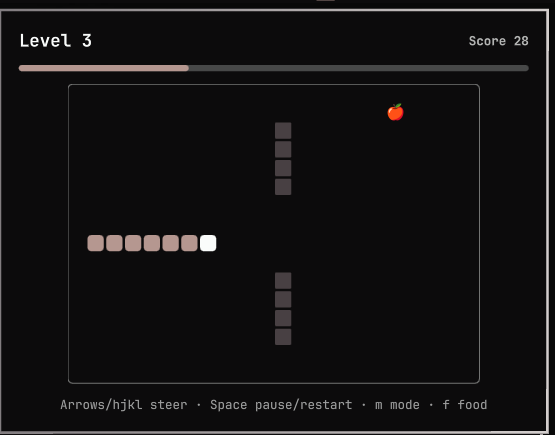
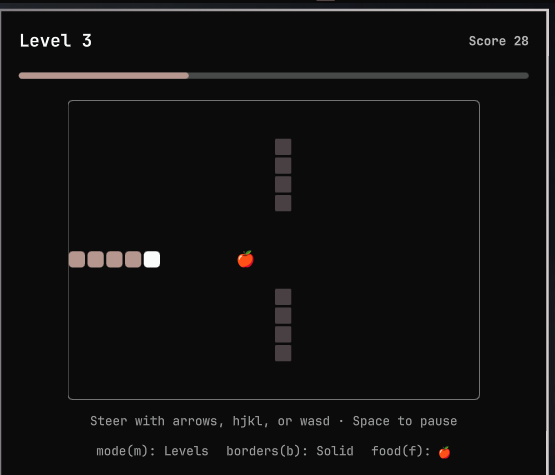
Remove wall-wrap button, add wasd, fixed-height header row, richer game-over quips
- Removed the PanelActionButton wall-wrap toggle from the header; 'w' is
  now movement (wasd steering added, riding onTextKey), wall-wrap moved
  to 'b' (borders)
- Header row (progress bar / endless-mode clock) is now a fixed-height
  Item so toggling Levels/Endless with 'm' no longer resizes the panel;
  Endless mode shows a running MM:SS clock in that slot instead of
  empty space
- Bottom hint area rebuilt: plain steer/pause line, then three
  independently clickable status labels (mode(m), borders(b), food(f))
  showing their current value and toggling on click same as their key;
  dropped the '·' separators for spacing instead; food moved to last
  position
- Game-over quip system expanded: 20 time-based lines plus 10 new
  score-based and 5 new level-based ones (35 total), plus a separate
  10-line highscore-only pool used when the run's score beats (not
  ties) the previous best; compact duration format (2m5s) instead of
  spelled-out minutes/seconds
- Regenerated preview.png and screenshot-levels.png against the current
  UI (old ones were stale after several rounds of panel layout changes)

Every change here was verified live (qmllint + omarchy plugin validate
before each shell restart, then a screenshot) before being folded in,
including sampling multiple random game-over quips across both the
regular and highscore pools.

diff --git a/Panel.qml b/Panel.qml
@@ -4,9 +4,13 @@ import qs.Commons
 
 // Snake, for the moments between: the build's compiling, the agent's still
 // thinking, the idea hasn't shown up yet. Lives in the bar so it's always
-// one click from wherever you already are. Arrow keys / hjkl steer, Space
-// pauses or restarts, m swaps Levels/Endless, w swaps solid/wrapping walls.
-// Each open starts a fresh run (onOpenedChanged below).
+// one click from wherever you already are. Arrow keys / hjkl / wasd steer,
+// Space pauses or restarts, m swaps Levels/Endless, b swaps solid/wrapping
+// walls. Each open starts a fresh run (onOpenedChanged below).
+//
+// wasd rides PanelKeyCatcher's onTextKey rather than onMoveRequested (which
+// only covers arrows and hjkl), calling turn() directly with the same
+// dx/dy convention.
 //
 // Levels mode: the header shows "Level N" and a thin progress bar tracks
 // score toward the next one. Level is derived from score via
@@ -94,6 +98,99 @@ Panel {
 
   function toggleWallsWrap() {
     wallsWrap = !wallsWrap
+  }
+
+  // Endless has no next level to show progress toward, so it gets a running
+  // clock in the same header slot instead — keeps something worth watching
+  // there and, since it occupies the same fixed-height row as the levels
+  // progress bar, keeps the panel from resizing when 'm' swaps modes.
+  property int elapsedSeconds: 0
+  readonly property string elapsedTimeText: {
+    var m = Math.floor(elapsedSeconds / 60)
+    var s = elapsedSeconds % 60
+    return (m < 10 ? "0" : "") + m + ":" + (s < 10 ? "0" : "") + s
+  }
+
+  // "2m5s", "45s" - compact duration for the game-over quip below.
+  function formatDuration(totalSeconds) {
+    var m = Math.floor(totalSeconds / 60)
+    var s = totalSeconds % 60
+    return m > 0 ? (m + "m" + s + "s") : (s + "s")
+  }
+
+  // One-liners for the game-over screen. {time}/{score}/{level} get
+  // substituted with the run that just ended (see fillGameOverTemplate()).
+  // endGame() picks one pool based on whether this run just beat `best`,
+  // then a random line from it once per death - not re-rolled on every
+  // re-render. Kept as three flavor pools (time/score/level) plus a
+  // separate highscore-only pool, rather than one flat list, so the
+  // highscore case never has to accidentally roll a line that doesn't
+  // mention the score.
+  readonly property var timeQuips: [
+    "Well, that's {time} of your life you'll never get back.",
+    "{time} well spent. Definitely not wasted. Probably.",
+    "The build finished ages ago. You're still here after {time}.",
+    "{time} of pure focus, undone by one wrong turn.",
+    "You survived {time}. The wall did not survive your ego.",
+    "{time}. Not your best run. Not your worst either.",
+    "Somewhere, a rubber duck is disappointed in your {time}.",
+    "{time} of your one wild and precious life, gone.",
+    "The snake remembers {time} of glory. Briefly.",
+    "You could've stretched in {time}. You did not.",
+    "{time} elapsed. Zero regrets. Okay, one regret.",
+    "That wall was there the whole time. {time} of denial.",
+    "{time}. Your coworkers think you're deep in thought.",
+    "Legendary run of {time}. Nobody was watching.",
+    "{time} down the drain, one pixel at a time.",
+    "You and the wall, {time} of tension, resolved poorly.",
+    "{time}. The agent finished. You did not.",
+    "Achievement unlocked: {time} of avoiding real work.",
+    "{time}. Worth it? Ask again after the next run.",
+    "A solid {time}. The snake deserved better."
+  ]
+  readonly property var scoreQuips: [
+    "Score: {score}. Groundbreaking. Truly.",
+    "{score} points. The bar was already low.",
+    "You scored {score}. Somewhere, a real gamer wept.",
+    "{score} points in {time}. Efficient, if nothing else.",
+    "A modest {score}. The apple logo remains unimpressed.",
+    "{score}. Write that down somewhere nobody will read it.",
+    "Final score: {score}. Print it. Frame it. Ignore it.",
+    "{score} points. The snake has seen better days.",
+    "You call that {score}? The snake is embarrassed for you.",
+    "{score}. Somewhere between 'meh' and 'why bother'."
+  ]
+  readonly property var levelQuips: [
+    "Made it to level {level}. The walls remain undefeated.",
+    "Level {level}. A number. Nothing more.",
+    "Level {level}, reached and then immediately un-reached.",
+    "You died on level {level}, same as everyone else who tried.",
+    "Level {level}. Somewhere, a wall is proud of itself."
+  ]
+  readonly property var allGameOverQuips: timeQuips.concat(scoreQuips, levelQuips)
+
+  // Only rolled when this run's score beats (not ties) the previous best.
+  readonly property var highscoreQuips: [
+    "New high score: {score}. Somebody alert the media. Or don't.",
+    "{score}! A new record. Treat yourself to absolutely nothing.",
+    "Personal best: {score}. History has been made. Barely.",
+    "You beat your high score with {score}. Confetti not included.",
+    "{score} points, a new high score, zero prize money.",
+    "New record! {score} points of undeniable, if minor, achievement.",
+    "High score! {score}. The trophy is imaginary but the pride is real.",
+    "You out-snaked your past self. {score}. Legendary. Ish.",
+    "{score} - a new best. Somewhere, past-you is furious.",
+    "Record broken: {score}. The snake salutes you. Sort of."
+  ]
+
+  property string gameOverTemplate: ""
+  readonly property string gameOverMessage: gameOverTemplate === "" ? "" : fillGameOverTemplate(gameOverTemplate)
+
+  function fillGameOverTemplate(template) {
+    return template
+      .replace("{time}", formatDuration(elapsedSeconds))
+      .replace("{score}", score)
+      .replace("{level}", level)
   }
 
   // Deterministic wall layouts for levels 2-50: 8 obstacle shapes, cycling
@@ -246,7 +343,9 @@ Panel {
 
   function resetGame() {
     score = 0
+    elapsedSeconds = 0
     gameOver = false
+    gameOverTemplate = ""
     running = true
     respawnSnake()
   }
@@ -284,7 +383,10 @@ Panel {
   function endGame() {
     gameOver = true
     running = false
-    if (score > best) best = score
+    var isNewBest = score > best
+    if (isNewBest) best = score
+    var pool = isNewBest ? highscoreQuips : allGameOverQuips
+    gameOverTemplate = pool[Math.floor(Math.random() * pool.length)]
   }
 
   function tick() {
@@ -342,6 +444,13 @@ Panel {
     onTriggered: root.tick()
   }
 
+  Timer {
+    interval: 1000
+    repeat: true
+    running: root.opened && root.running && !root.gameOver
+    onTriggered: root.elapsedSeconds += 1
+  }
+
   BarIconButton {
     id: button
     anchors.fill: parent
@@ -371,7 +480,11 @@ Panel {
         if (t === "r" || t === "R") root.resetGame()
         else if (t === "m" || t === "M") root.toggleMode()
         else if (t === "f" || t === "F") root.cycleFoodStyle()
-        else if (t === "w" || t === "W") root.toggleWallsWrap()
+        else if (t === "b" || t === "B") root.toggleWallsWrap()
+        else if (t === "w" || t === "W") root.turn(0, -1)
+        else if (t === "a" || t === "A") root.turn(-1, 0)
+        else if (t === "s" || t === "S") root.turn(0, 1)
+        else if (t === "d" || t === "D") root.turn(1, 0)
       }
 
       Column {
@@ -395,7 +508,6 @@ Panel {
           }
 
           Text {
-            id: scoreText
             anchors.right: parent.right
             anchors.verticalCenter: parent.verticalCenter
             text: "Score " + root.score + (root.best > 0 ? "  ·  Best " + root.best : "")
@@ -404,41 +516,43 @@ Panel {
             font.pixelSize: Style.font.caption
             font.bold: true
           }
-
-          // Toggles whether running into a board edge ends the game (solid,
-          // default) or wraps the snake to the opposite side (wrap-around).
-          // Lit in the accent color while wrap is on.
-          PanelActionButton {
-            anchors.right: scoreText.left
-            anchors.rightMargin: Style.space(10)
-            anchors.verticalCenter: parent.verticalCenter
-            iconText: "↺"
-            foreground: root.wallsWrap ? Color.accent : Qt.darker(root.bar.foreground, 1.6)
-            hoverColor: root.bar.foreground
-            bordered: root.wallsWrap
-            tooltipText: root.wallsWrap ? "Wrapping walls (w) — click for solid" : "Solid walls (w) — click to wrap"
-            onClicked: root.toggleWallsWrap()
-          }
         }
 
-        // Progress toward the next level. Hidden in endless mode, where
-        // there is no next level to track.
-        Rectangle {
+        // Fixed-height regardless of mode so toggling 'm' never resizes the
+        // panel: Levels shows progress toward the next level; Endless has
+        // no next level to track, so it gets a running clock instead.
+        Item {
           width: parent.width
-          height: Style.space(5)
-          radius: height / 2
-          visible: !root.endlessMode
-          color: Qt.darker(root.bar.foreground, 3.5)
+          height: Style.space(18)
 
           Rectangle {
-            width: parent.width * root.levelProgress
-            height: parent.height
+            width: parent.width
+            height: Style.space(5)
             radius: height / 2
-            color: Color.accent
+            anchors.verticalCenter: parent.verticalCenter
+            visible: !root.endlessMode
+            color: Qt.darker(root.bar.foreground, 3.5)
 
-            Behavior on width {
-              NumberAnimation { duration: 150; easing.type: Easing.OutCubic }
+            Rectangle {
+              width: parent.width * root.levelProgress
+              height: parent.height
+              radius: height / 2
+              color: Color.accent
+
+              Behavior on width {
+                NumberAnimation { duration: 150; easing.type: Easing.OutCubic }
+              }
             }
+          }
+
+          Text {
+            anchors.centerIn: parent
+            visible: root.endlessMode
+            text: root.elapsedTimeText
+            color: Qt.darker(root.bar.foreground, 1.4)
+            font.family: root.bar.fontFamily
+            font.pixelSize: Style.font.caption
+            font.bold: true
           }
         }
 
@@ -528,20 +642,88 @@ Panel {
                 font.family: root.bar.fontFamily
                 font.pixelSize: Style.font.caption
               }
+
+              Text {
+                visible: root.gameOver
+                anchors.horizontalCenter: parent.horizontalCenter
+                text: root.gameOverMessage
+                color: "#ffffff"
+                opacity: 0.7
+                font.family: root.bar.fontFamily
+                font.pixelSize: Style.font.caption
+                horizontalAlignment: Text.AlignHCenter
+                wrapMode: Text.WordWrap
+                // The enclosing Column has no explicit width of its own (it
+                // sizes to its widest child), so binding to board.width
+                // here instead of parent.width avoids a circular sizing
+                // dependency that would squeeze this down to near nothing.
+                width: board.width - Style.space(24)
+              }
             }
           }
         }
 
         Text {
           width: parent.width
-          text: "Arrows/hjkl steer · Space pause/restart · m mode · f food · w walls"
+          text: "Steer with arrows, hjkl, or wasd · Space to pause"
           color: Qt.darker(root.bar.foreground, 1.6)
           font.family: root.bar.fontFamily
           font.pixelSize: Style.font.caption
           horizontalAlignment: Text.AlignHCenter
           wrapMode: Text.WordWrap
         }
+
+        // Each of these doubles as a mouse target for the same toggle its
+        // key does, so the current value (mode/food skin/border behavior)
+        // is both visible and clickable without opening a menu.
+        Row {
+          anchors.horizontalCenter: parent.horizontalCenter
+          spacing: Style.space(14)
+
+          HintLabel {
+            text: "mode(m): " + (root.endlessMode ? "Endless" : "Levels")
+            onClicked: root.toggleMode()
+          }
+          HintLabel {
+            text: "borders(b): " + (root.wallsWrap ? "Wrap" : "Solid")
+            onClicked: root.toggleWallsWrap()
+          }
+          HintLabel {
+            text: "food(f): " + root.currentFoodStyle.text
+            onClicked: root.cycleFoodStyle()
+          }
+        }
       }
+    }
+  }
+
+  // Clickable status label for the bottom hint row: mode/food/borders each
+  // show their current value and share this so a click acts the same as
+  // the key it names. Brightens to full foreground on hover.
+  component HintLabel: Item {
+    id: hintLabel
+    required property string text
+    signal clicked()
+
+    implicitWidth: label.implicitWidth
+    implicitHeight: label.implicitHeight
+
+    Text {
+      id: label
+      text: hintLabel.text
+      color: mouseArea.containsMouse ? root.bar.foreground : Qt.darker(root.bar.foreground, 1.6)
+      font.family: root.bar.fontFamily
+      font.pixelSize: Style.font.caption
+
+      Behavior on color { ColorAnimation { duration: 100 } }
+    }
+
+    MouseArea {
+      id: mouseArea
+      anchors.fill: parent
+      hoverEnabled: true
+      cursorShape: Qt.PointingHandCursor
+      onClicked: hintLabel.clicked()
     }
   }
 }
